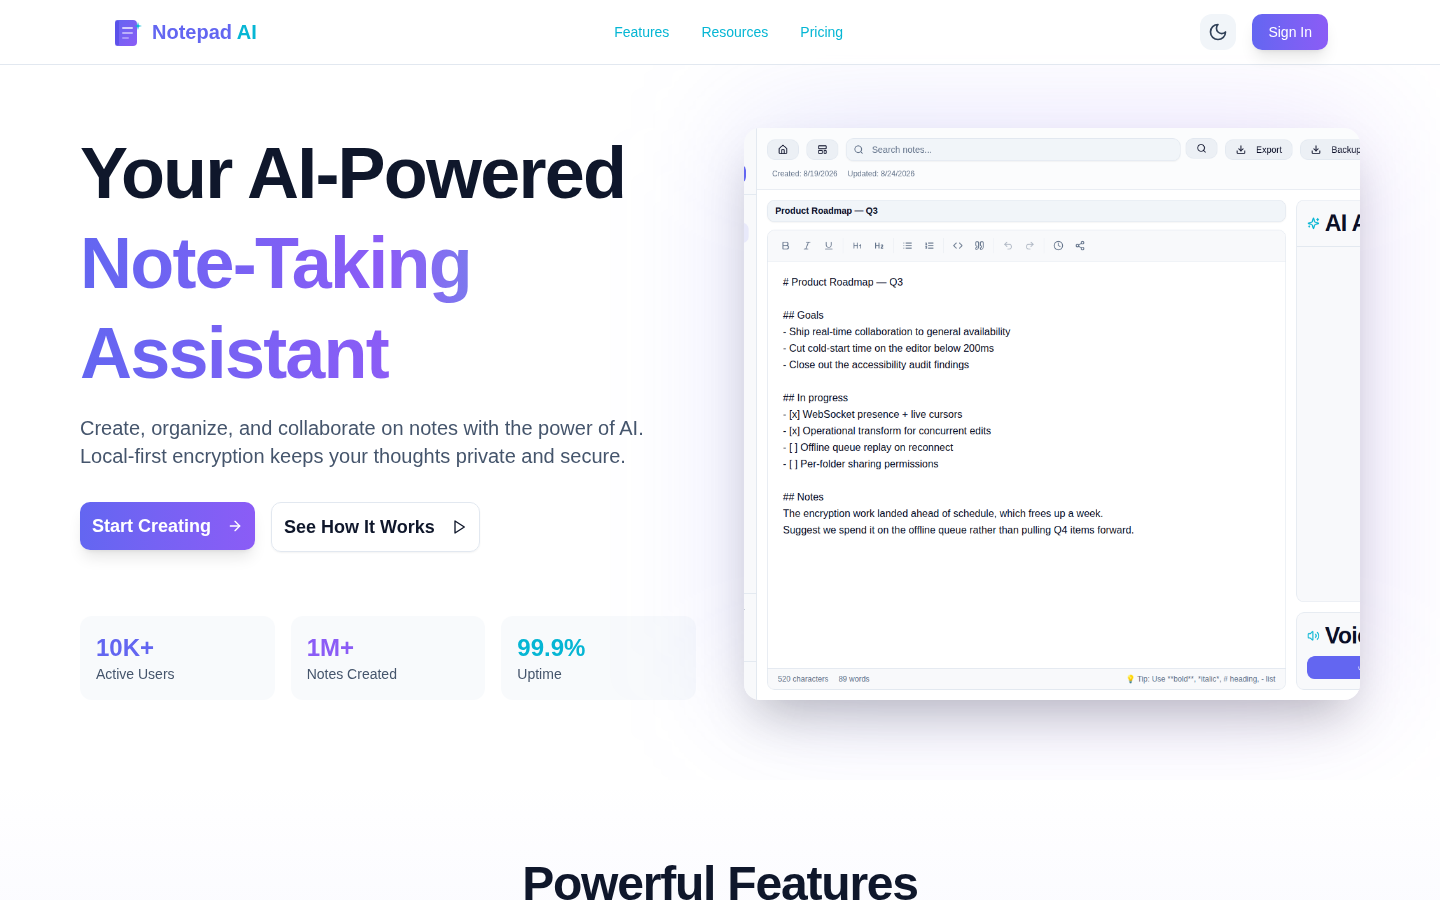
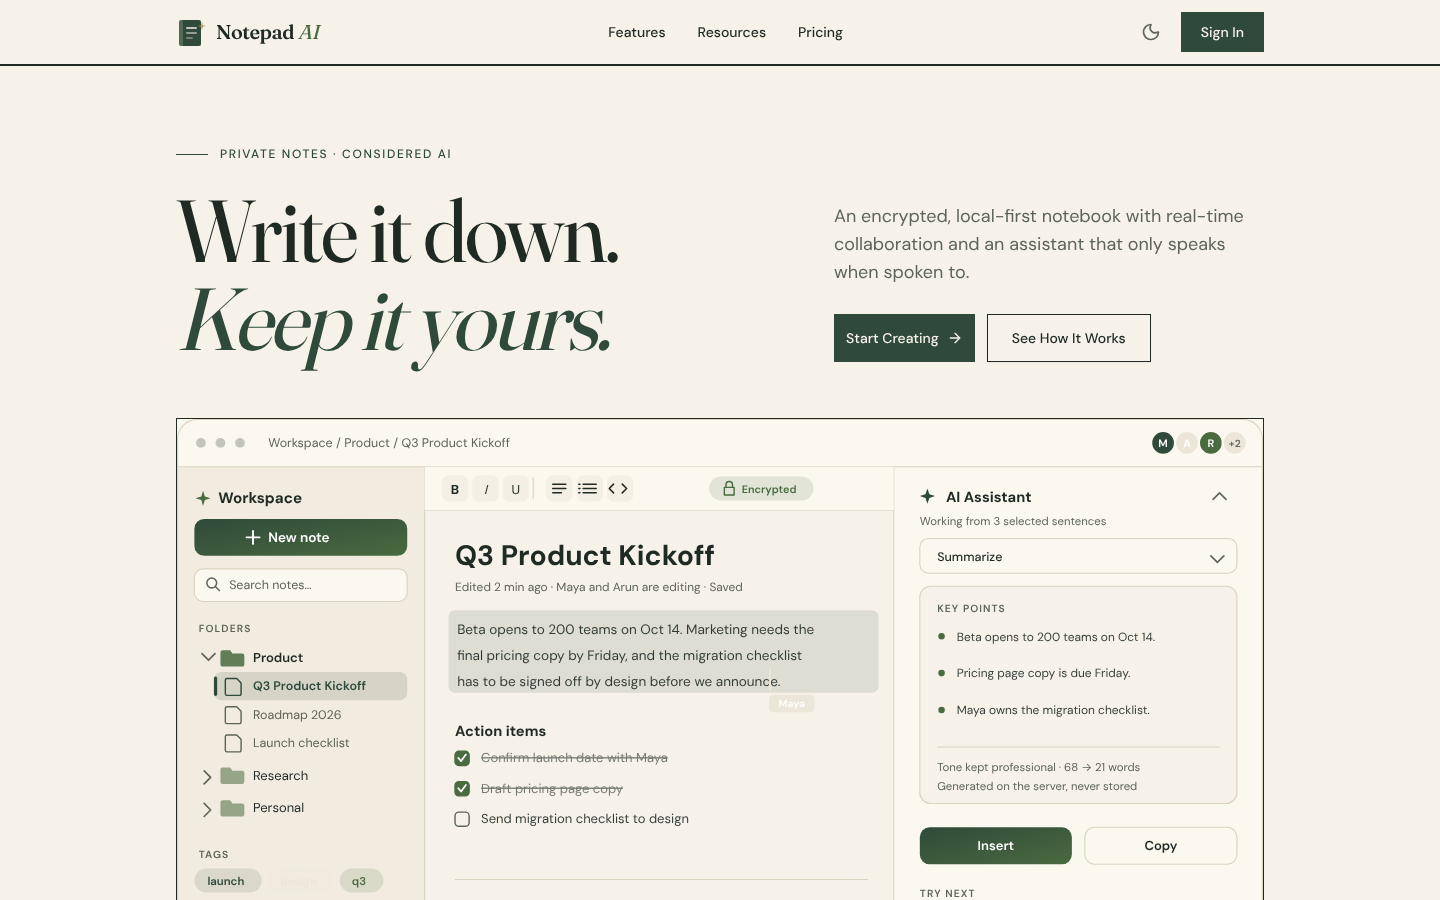
docs: refresh README screenshots and trim it to the essentials
Retake the landing and workspace screenshots from a current build, and drop
the step-by-step run instructions, scripts table and long configuration prose.

Claude-Session: https://claude.ai/code/session_01Hi5B2gVkKGnKy3ERecCREP

diff --git a/README.md b/README.md
@@ -9,7 +9,7 @@
 [![tRPC](https://img.shields.io/badge/tRPC-v11-2596BE?style=flat-square&logo=trpc&logoColor=white)](https://trpc.io/)
 [![License: MIT](https://img.shields.io/badge/License-MIT-22c55e?style=flat-square)](LICENSE)
 
-[Screenshots](#screenshots) · [Features](#features) · [Tech Stack](#tech-stack) · [Getting Started](#getting-started) · [Configuration](#configuration) · [Security](SECURITY.md) · [Contributing](#contributing)
+[Screenshots](#screenshots) · [Features](#features) · [Tech Stack](#tech-stack) · [Configuration](#configuration) · [Security](SECURITY.md) · [Contributing](#contributing)
 
 </div>
 
@@ -41,9 +41,8 @@ A shared note open at its share link: permission level, live connection status, 
 
 ![The marketing landing page, with the product headline, call-to-action buttons and a preview of the editor](docs/screenshots/landing.png)
 
-> Captured from a local production build. The workspace shots run in the app's
-> built-in demo session, which is why the header shows a demo countdown and a
-> **Sign In** button.
+> Captured from a local production build in local-only mode, which is why the
+> header shows an **On this device** badge and a **Sign In** button.
 
 ---
 
@@ -160,68 +159,6 @@ file and names every feature. Then `server/db.ts` for queries and
 
 ---
 
-## Getting Started
-
-### Prerequisites
-
-- **Node.js** 20.19+ or 22.12+ — Vite 7 declares
-  `^20.19.0 || >=22.12.0` and refuses to run below it. CI uses Node 22.
-- **pnpm 10** — the version is pinned in `package.json`'s `packageManager`
-  field, so the reliable way to get the right one is `corepack enable` rather
-  than a global install. The lockfile is v9 format and pnpm 8 cannot read it.
-
-### Installation
-
-```bash
-# Clone the repository
-git clone https://github.com/VijayKumaro7/NotionAI_Notepad.git
-cd NotionAI_Notepad
-
-# Install dependencies
-pnpm install
-
-# Configure the app
-# There is no .env.example in the repository, deliberately: a checked-in
-# template is a standing list of what to look for, and one careless commit
-# away from holding a real value. Create .env yourself — .gitignore already
-# covers it — using the variables listed under Configuration below.
-touch .env
-```
-
-### Development
-
-```bash
-# Start client + server with hot reload
-pnpm dev
-```
-
-Open [http://localhost:5000](http://localhost:5000) if you set `PORT=5000` in
-your `.env`. Without a `.env` the server falls back to port 3000.
-
-### Production Build
-
-```bash
-pnpm build    # Compile client and server
-pnpm start    # Serve the production build
-```
-
-### Tests
-
-```bash
-pnpm test           # Run all tests once
-pnpm test:watch     # Watch mode
-pnpm smoke          # Boot the built server and check it serves (needs pnpm build first)
-```
-
-### Database
-
-```bash
-pnpm db:generate    # Generate Drizzle migration files
-pnpm db:push        # Apply schema to the database
-```
-
----
-
 ## Configuration
 
 Configuration is read from the environment. In development that means a `.env`
@@ -248,132 +185,14 @@ The essentials:
 | `TRUSTED_PROXY_HOPS`                   | How many reverse proxies sit in front, which decides which `X-Forwarded-For` entry the rate limits count against. Defaults to 1 in production, 0 otherwise |
 
 Anything prefixed `VITE_` is **compiled into the client bundle at build time**,
-not read at runtime. Changing one requires a rebuild. That is also why the AI
-key has no `VITE_` equivalent: every AI call goes through the server, because a
-provider key read in the browser would be published with the bundle. If the two OAuth `VITE_`
-values are missing, the client logs a warning and the Sign In button goes
-nowhere.
-
-`VITE_APP_ID` is also read by the server, and with `JWT_SECRET` it is
-**required whenever `DATABASE_URL` is set**. Without the secret there is no key
-to sign a session with; without the app id sign-in appears to work and then
-every request after it is refused. Either way the server stops at startup and
-says which, instead of running that way. With no database nobody can sign in and
-nothing needs them, which is why a build with none of the three still starts.
-
-A `DATABASE_URL` that can never work is refused the same way: one that is not a
-URL (often stray quotes, or an unencoded `@` in the password), one that is not
-`mysql://`, or one that names no database. Left alone the server would start as
-one with no database, and sign-in would quietly never work. The message never
-repeats the value, which holds the password. It checks the shape only: whether
-the host answers and the password is right is still found out on the first
-query.
-
-A `VITE_APP_ID` that cannot be a real id logs a warning rather than stopping the
-server: one with whitespace or quotes pasted around it, a URL, a template like
-`<your-app-id>`, or a placeholder such as `your-app-id` or the word `undefined`
-that a build writes when the variable was empty. There is no format to check an
-id against, since the sign-in portal hands out an opaque string, so these are
-the only shapes it can be sure are wrong. Only portal sign-in uses the id;
-email and Google sign-in, and sessions already issued, do not care. It is
-compiled into the client, so correcting it needs a rebuild.
-
-`PORT` is refused when it is set to anything but plain digits naming a port,
-1 to 65535, with or without a database. Unset still means 3000. The server
-reads it leniently, and a lenient read binds the wrong port without a word:
-`1e3` is port 1, `80.5` is 80, `0` is a random port nothing routes to.
-
-`NODE_ENV` gets a startup warning unless it is exactly `production` or
-`development`, including when it is unset. Everything in the server compares it
-to exactly `production`, so `prod`, `Production`, `staging` and nothing at all
-run the relaxed mode quietly: session cookies are Secure only when the request
-itself arrived over https, plain http is not redirected, the
-Content-Security-Policy is the development one, `X-Forwarded-For` is not
-trusted (every client behind a proxy shares one rate-limit address) and the
-reCAPTCHA hostname is not checked. `pnpm start` sets it for you; a platform that
-runs `node dist/index.js` directly has to. It is a warning because the server
-runs and changing it signs nobody out, but a deploy that is meant to be
-production should not carry on without it.
-
-Email is on only when `EMAIL_API_URL`, `EMAIL_API_KEY` and `EMAIL_FROM` are all
-set, and its failures are quiet: a password reset is sent without being awaited
-and a failure is only logged, after the person was told a link is on its way,
-and a registration creates the account before it sends. The server warns at
-startup if only some of the three are set (email then stays off), if one is only
-whitespace (which counts as set), if `EMAIL_API_URL` is not an absolute `http(s)`
-URL or carries a username or password (`fetch` refuses both), if it is `http://`
-to a real host (the key would travel in clear text), if it is a bare origin with
-no path (a send endpoint normally has one, so the API's base address was likely
-pasted in its place; a relay that takes sends at its root is the exception), and
-if email is configured with no `PUBLIC_ORIGIN`, which every confirmation and
-reset link is built from.
-
-It checks the key too, since it goes out as `Authorization: Bearer <key>`. A
-newline, a NUL or a character past Latin-1 inside it (often a curly quote from a
-paste) makes `fetch` throw before anything is sent, so every send fails; leading
-and trailing whitespace is stripped and is fine. Quotes around it, a leading
-`Bearer ` (the server adds its own) and a template word like `your-api-key` are
-flagged as what they would do. A well-formed but wrong key still passes: only the
-provider can say.
-
-`OAUTH_SERVER_URL` is the base URL for portal sign-in's token exchange and
-user-info calls. The server warns at startup if it is not an absolute `http(s)`
-URL (axios rejects a missing scheme on the first call, so every portal sign-in
-would fail), if it carries a username or password (sent as HTTP Basic auth on
-every call, and printed by the startup log line), or if it is `http://` to a real
-host (the sign-in code and the access token cross the network in clear text). A
-path is kept and joined, so it is not flagged. Unset is not judged: the server
-cannot know whether portal sign-in is in use, and it already logs that case.
-
-Google sign-in is on only when `GOOGLE_CLIENT_ID`, `GOOGLE_CLIENT_SECRET` and
-`PUBLIC_ORIGIN` are all set, and a mistake in the ID fails late: it is compared
-with the ID token's audience for exact equality, so a trailing newline from a
-secrets file, a leading space or surrounding quotes fail only after Google has
-signed someone in. The server warns at startup about exactly those, about an ID
-that does not end in `.apps.googleusercontent.com` (which every web client ID
-does) or starts `GOCSPX-` (a client secret), about an ID and secret pasted the
-wrong way round, and about one or two of the three set with the rest missing,
-where the button is simply not shown. It cannot tell whether the ID exists or
-has this server's redirect URI registered; only Google can.
-
-`GOOGLE_CLIENT_SECRET` is used in one place, the code exchange after the person has
-already approved the sign-in, so a wrong one fails every Google sign-in at the
-last step rather than at the redirect. The server warns at startup about
-whitespace in it (a trailing newline from a secrets file is sent to Google as
-written), quotes around it, the downloaded JSON file pasted in place of the
-secret inside it, any character outside letters, digits, `-` and `_`, and a
-template word like `your-client-secret`. It does not require the `GOCSPX-`
-prefix: older secrets are 24 characters with no prefix and are still in use.
-
-`EMAIL_FROM` is checked as the single mailbox every provider takes, either
-`address` or `Name <address>`: no `@` at all, a name with no angle brackets,
-several addresses, a newline or other control character (it goes into the JSON
-body as written, so a trailing newline from a secrets file is sent too), quotes
-around the whole value, and a sender at `example.com` or another reserved or
-template domain no provider can have verified (not flagged when
-`EMAIL_API_URL` points at this machine, where a mail sink accepts anything).
-Whether the address is one your provider has verified is only the provider's to
-say.
-
-Cloud backup is on exactly when `S3_BUCKET` is set, and a bad value is otherwise
-found at the first backup. The server warns at startup about a bucket that is
-not a bare name (a URL or `s3://` path, a slash, whitespace, a bucket ARN), an
-`S3_ENDPOINT` that is not an absolute `http(s)` URL (a bare `host:port` is
-rejected by the SDK), an `S3_REGION` with characters a region cannot have, and
-`S3_REGION` or `S3_ENDPOINT` set with no bucket, where backup silently stays off.
-Credentials are not checked: the SDK finds them through a chain (environment,
-profile, role), so a half-set pair in the environment does not mean it will not
-find them elsewhere. An unset `S3_REGION` means `us-east-1`, which is only right
-if the bucket is there, and nothing at startup can tell.
-
-A `JWT_SECRET` shorter than 32 characters does not stop the server, but it logs
-a warning at startup: it signs every session, so use something like
-`openssl rand -hex 32`. So does a longer one that is plainly guessable: it
-contains a placeholder word like `changeme`, uses only a few different
-characters, is a short pattern repeated, or has a long run like `12345678`. That
-is all the check can see. It cannot call a secret strong, and a long passphrase
-of ordinary words passes. Changing the secret signs everyone out and invalidates
-every two-step enrolment, which is why these are warnings and not refusals.
+so changing one needs a rebuild, and no provider key ever gets a `VITE_` name:
+every AI call goes through the server. `JWT_SECRET` and `VITE_APP_ID` are
+required whenever `DATABASE_URL` is set, and the server refuses to start without
+them. Smaller misconfigurations (short secrets, malformed URLs, a `NODE_ENV`
+other than `production`/`development`) are reported as startup warnings that
+never print the value. Email, Google sign-in, reCAPTCHA and S3 backup are each
+optional and report themselves unavailable when unset. `render.yaml` lists every
+variable.
 
 **Notes** work with no database at all — they fall back to local encrypted
 storage in the browser, which is the local-first design. The features that do
@@ -426,88 +245,20 @@ TRUSTED_PROXY_HOPS=1
 
 The server trusts `X-Forwarded-Proto` to know a request arrived over HTTPS, and
 reads the client address from the right-hand end of `X-Forwarded-For`, counting
-`TRUSTED_PROXY_HOPS` proxies back. Put a CDN in front of nginx and that becomes
-2. Get it wrong and the rate limits either lump every visitor together (too low)
+`TRUSTED_PROXY_HOPS` proxies back. Put a CDN in front of nginx and that becomes 2. Get it wrong and the rate limits either lump every visitor together (too low)
 or let a caller choose their own address (too high). The server warns at startup
 about a value it would read differently from how it looks, or above 3.
 
 ### Render
 
-`render.yaml` in the repo root is a Blueprint. In Render choose **New →
-Blueprint**, point it at this repository, and it will prompt for every value the
-file marks `sync: false`.
+`render.yaml` is a Blueprint: **New → Blueprint**, pick this repository, and fill
+the values it marks `sync: false`. Provision MySQL elsewhere (Render's managed
+database is PostgreSQL), apply the schema once with `pnpm db:push`, and add the
+sign-in methods you want. `JWT_SECRET` and `DEMO_LIMIT_SALT` are generated;
+do not rotate `JWT_SECRET`, as it signs every session.
 
-In order:
-
-1. **Provision MySQL somewhere else first.** Render's managed database is
-   PostgreSQL and this app is MySQL — PlanetScale, Aiven and Railway all work.
-   Have the connection string ready; the Blueprint asks for it as `DATABASE_URL`.
-2. **New → Blueprint**, select this repository. Render reads `render.yaml` and
-   prompts for the rest. `JWT_SECRET` and `DEMO_LIMIT_SALT` are generated for
-   you; everything else can be left blank and filled in later, because each
-   feature reports itself unavailable rather than half-working.
-3. **Run the migrations once** against that database: `pnpm db:push` locally
-   with `DATABASE_URL` pointed at it. Sign-in needs the tables that creates.
-4. **Add the sign-in methods you want.** All optional, all independent:
-   - Google — create an OAuth client ("Web application") and register
-     `https://<service>.onrender.com/api/auth/google/callback` exactly.
-   - Email — `EMAIL_API_URL`, `EMAIL_API_KEY`, `EMAIL_FROM` for any JSON email
-     API. Without all three, email sign-up says so instead of accepting
-     registrations whose confirmation link never arrives.
-   - reCAPTCHA — `RECAPTCHA_SITE_KEY` and `RECAPTCHA_SECRET_KEY`.
-
-`PUBLIC_ORIGIN` needs no value on Render: the server falls back to
-`RENDER_EXTERNAL_URL`, which Render sets to the service's own URL. Set it
-explicitly only for a custom domain — it is what the Google redirect URI and the
-links inside email are built from, and neither is ever built from a request
-header.
-
-The server warns at startup if `PUBLIC_ORIGIN` cannot work as one: not an
-absolute `http(s)` URL (a missing scheme, stray quotes), a username or password
-in it (copied into every link built from it), or a path, query or fragment,
-which is ignored because only the scheme, host and port are used. In production
-an `http://` origin on a real host is flagged too, because the HTTPS redirect
-targets this origin and would send every visitor back to the same address. It
-cannot know whether the host is the right one; a wrong host makes the CSRF
-check refuse every write.
-
-`server/renderBlueprint.test.ts` fails if the server reads a variable the
-Blueprint does not declare, which is otherwise invisible: the deploy succeeds
-and the feature simply behaves as though it were switched off.
-
-> **Netlify is frontend-only.** `netlify.toml` builds the client and returns 404
-> for `/api/*` on purpose, so nothing that needs the server works there — no
-> sign-in of any kind, no synced notes, no collaboration. The app itself still
-> runs: the login page detects the missing API and offers local-only mode
-> instead (see **A note on static hosts**). Either serve the whole
-> app from Render, or keep Netlify for the frontend and replace that 404 rule
-> with a proxy to the Render URL, as the comment in `netlify.toml` shows.
-
-**The database is not in the blueprint, deliberately.** Render's managed
-offering is PostgreSQL; this app is MySQL (`drizzle.config.ts` sets
-`dialect: "mysql"`, the driver is `mysql2`). Provision MySQL elsewhere —
-PlanetScale, Aiven, Railway, your own — and give Render the connection string as
-`DATABASE_URL`.
-
-Then, once:
-
-```bash
-DATABASE_URL="<your connection string>" pnpm db:push
-```
-
-Two things worth knowing:
-
-- `JWT_SECRET` is set to `generateValue: true`, so Render creates one on the
-  first deploy. Do not change it afterwards — it signs session cookies, and
-  rotating it signs everyone out.
-- The `VITE_` values are compiled into the client bundle at build time. Changing
-  one requires a redeploy, not a restart.
-- The free plan sleeps when idle, so the first request after a quiet period
-  waits for a cold start.
-
-Finally, register `https://<your-render-domain>/api/oauth/callback` with your
-OAuth portal — `getLoginUrl()` derives the redirect URI from whatever origin is
-serving the app, so sign-in fails until that origin is allowed.
+> **Netlify is frontend-only.** `/api/*` returns 404 there, so the login page
+> offers local-only mode instead (see **A note on static hosts**).
 
 ### Demo sessions
 
@@ -615,23 +366,6 @@ drift apart.
 
 ---
 
-## Scripts Reference
-
-| Command            | Description                                |
-| ------------------ | ------------------------------------------ |
-| `pnpm dev`         | Start development server (client + server) |
-| `pnpm build`       | Build for production                       |
-| `pnpm start`       | Run production build                       |
-| `pnpm check`       | TypeScript type-check (no emit)            |
-| `pnpm test`        | Run test suite                             |
-| `pnpm test:watch`  | Run tests in watch mode                    |
-| `pnpm smoke`       | Boot the built server and check it serves  |
-| `pnpm format`      | Format all files with Prettier             |
-| `pnpm db:generate` | Generate Drizzle migration files           |
-| `pnpm db:push`     | Apply schema to the database               |
-
----
-
 ## Contributing
 
 Contributions are welcome. Please follow these steps:
@@ -673,16 +407,6 @@ CodeQL also runs on every pull request, as `Analyze (javascript-typescript)`,
 but from GitHub's **default setup** rather than from this repository's
 workflows — the two configurations cannot coexist, and default setup was already
 enabled.
-
-You can run the whole gate locally before pushing:
-
-```bash
-pnpm install --frozen-lockfile
-pnpm check && pnpm test && pnpm build && pnpm smoke
-pnpm audit --audit-level high
-```
-
-
 
 Security policy, the intended security model, and how to report a vulnerability
 privately: [`SECURITY.md`](SECURITY.md).
